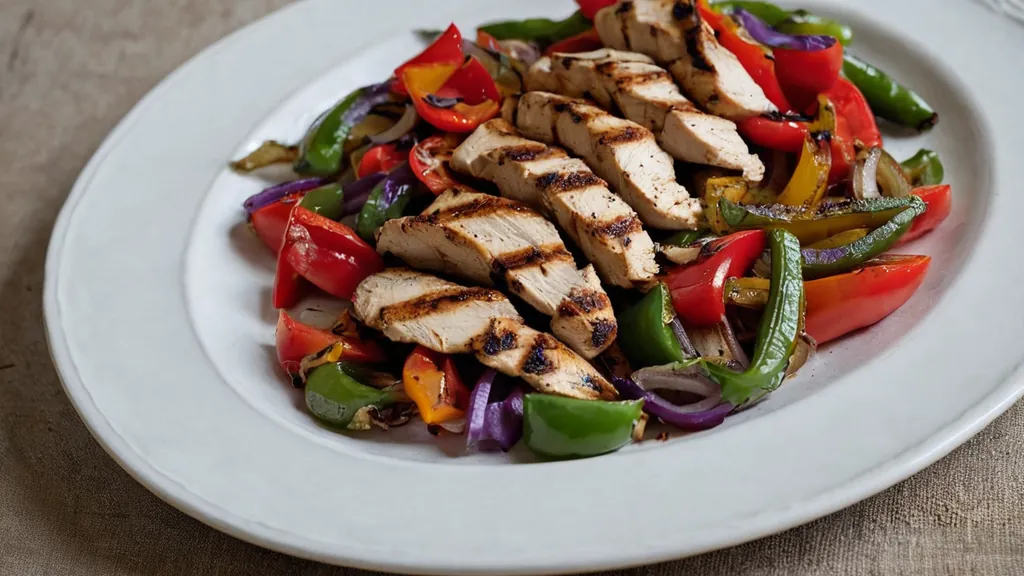
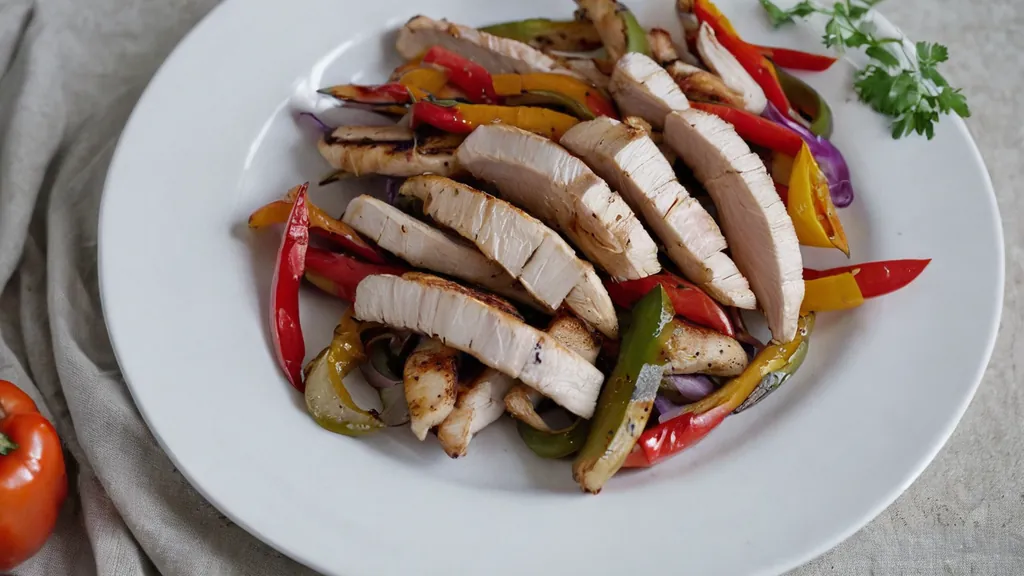
feat(pipeline): verify end-to-end LLM prompt compilation and VLM quality gate on live dishes

diff --git a/bsdm/cloudflare.py b/bsdm/cloudflare.py
@@ -233,9 +233,22 @@ class CloudflareClient:
                         .replace("True", "true")
                         .replace("False", "false")
                     )
-                    res = json.loads(clean_json)
+                    try:
+                        res = json.loads(clean_json)
+                    except Exception:
+                        res = {}
                 else:
-                    res = {}
+                    valid_m = re.search(r"\bvalid\b[*:\s]+(true|false)", raw_text, re.I)
+                    score_m = re.search(r"\bscore\b[*:\s]+(\d+)", raw_text, re.I)
+                    reason_m = re.search(r"\breason\b[*:\s]+([^\n*]+)", raw_text, re.I)
+                    if valid_m or score_m:
+                        res = {
+                            "valid": valid_m.group(1).lower() == "true" if valid_m else False,
+                            "score": int(score_m.group(1)) if score_m else 0,
+                            "reason": reason_m.group(1).strip() if reason_m else "",
+                        }
+                    else:
+                        res = {}
             else:
                 res = {}
 
